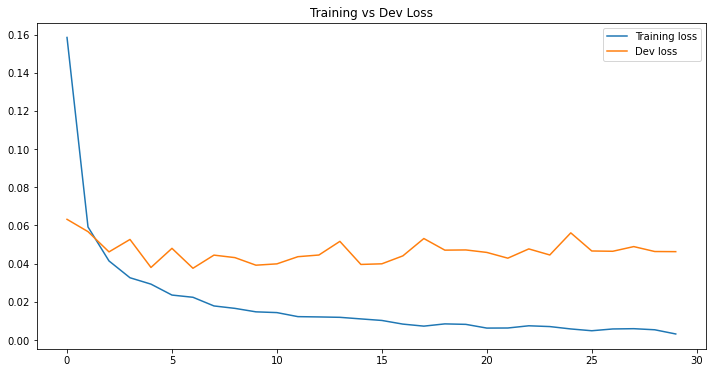
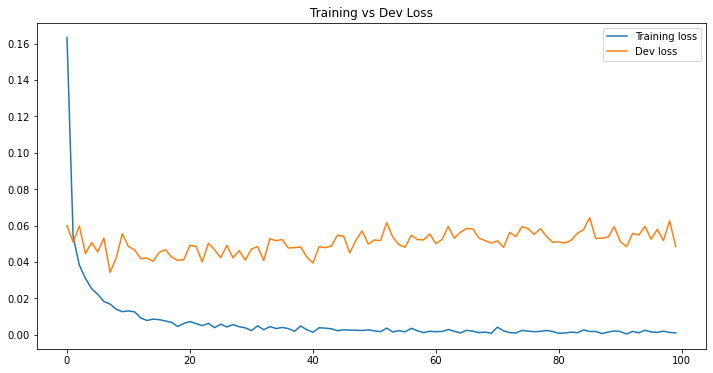
revise

diff --git a/_posts/2021-04-09-LeNet-5-with-MNIST.md b/_posts/2021-04-09-LeNet-5-with-MNIST.md
@@ -5,13 +5,13 @@ date: "9 April 2021"
 comments: yes
 layout: post
 ---
-
 In the previous post, we used `tf.keras` to build and train a 2-layer neural network to predict digits 0-9 with MNIST dataset. This time, we will step up our game a bit when we build a Convolutional Neural Network (CNN) for our learning.
 
 ## I - Load Packages and Define Constants
 
 
 ```python
+# Load packages
 import tensorflow as tf
 import numpy as np
 from tensorflow import keras
@@ -22,8 +22,9 @@ np.random.seed(1)
 
 
 ```python
+# Define constants
 NUMBER_OF_CLASSES = 10
-EPOCHS = 30
+EPOCHS = 100
 BATCH_SIZE = 2**6
 VALIDATION_SPLIT = .2
 ```
@@ -137,12 +138,15 @@ In this post, we will build a CNN to solve MNIST. Specifically we will use one o
 6. `Dense`: 84 units, activation = "relu".
 7. `Dense`: 10 units, activation = "softmax".
 
+
 ![png](/../figs/2021-04-09-LeNet-5-with-MNIST/LeNet5.png)
 
 
 ```python
 mnist_model = keras.Sequential([
     keras.layers.Input(shape=(28, 28, 1)),
+    
+    keras.layers.ZeroPadding2D(padding=(2, 2)),
     
     keras.layers.Conv2D(filters=6, kernel_size=(5, 5), strides=1, padding="valid"),
     keras.layers.BatchNormalization(),
@@ -180,29 +184,31 @@ mnist_model.summary()
     _________________________________________________________________
     Layer (type)                 Output Shape              Param #   
     =================================================================
-    conv2d (Conv2D)              (None, 24, 24, 6)         156       
+    zero_padding2d (ZeroPadding2 (None, 32, 32, 1)         0         
     _________________________________________________________________
-    batch_normalization (BatchNo (None, 24, 24, 6)         24        
+    conv2d (Conv2D)              (None, 28, 28, 6)         156       
     _________________________________________________________________
-    activation (Activation)      (None, 24, 24, 6)         0         
+    batch_normalization (BatchNo (None, 28, 28, 6)         24        
     _________________________________________________________________
-    average_pooling2d (AveragePo (None, 12, 12, 6)         0         
+    activation (Activation)      (None, 28, 28, 6)         0         
     _________________________________________________________________
-    batch_normalization_1 (Batch (None, 12, 12, 6)         24        
+    average_pooling2d (AveragePo (None, 14, 14, 6)         0         
     _________________________________________________________________
-    conv2d_1 (Conv2D)            (None, 8, 8, 16)          2416      
+    batch_normalization_1 (Batch (None, 14, 14, 6)         24        
     _________________________________________________________________
-    batch_normalization_2 (Batch (None, 8, 8, 16)          64        
+    conv2d_1 (Conv2D)            (None, 10, 10, 16)        2416      
     _________________________________________________________________
-    activation_1 (Activation)    (None, 8, 8, 16)          0         
+    batch_normalization_2 (Batch (None, 10, 10, 16)        64        
     _________________________________________________________________
-    average_pooling2d_1 (Average (None, 4, 4, 16)          0         
+    activation_1 (Activation)    (None, 10, 10, 16)        0         
     _________________________________________________________________
-    batch_normalization_3 (Batch (None, 4, 4, 16)          64        
+    average_pooling2d_1 (Average (None, 5, 5, 16)          0         
     _________________________________________________________________
-    flatten (Flatten)            (None, 256)               0         
+    batch_normalization_3 (Batch (None, 5, 5, 16)          64        
     _________________________________________________________________
-    dense (Dense)                (None, 120)               30840     
+    flatten (Flatten)            (None, 400)               0         
+    _________________________________________________________________
+    dense (Dense)                (None, 120)               48120     
     _________________________________________________________________
     batch_normalization_4 (Batch (None, 120)               480       
     _________________________________________________________________
@@ -212,8 +218,8 @@ mnist_model.summary()
     _________________________________________________________________
     dense_2 (Dense)              (None, 10)                850       
     =================================================================
-    Total params: 45,418
-    Trainable params: 44,922
+    Total params: 62,698
+    Trainable params: 62,202
     Non-trainable params: 496
     _________________________________________________________________
 
@@ -221,8 +227,8 @@ mnist_model.summary()
 
 ```python
 # Compile our model
-mnist_model.compile(optimizer="adam", 
-                    loss="categorical_crossentropy",
+mnist_model.compile(optimizer='adam', 
+                    loss='categorical_crossentropy',
                     metrics=['accuracy'])
 ```
 
@@ -243,13 +249,13 @@ history = mnist_model.fit(X_train_preprocessed,
 mnist_model.evaluate(X_test_preprocessed, Y_test_preprocessed)
 ```
 
-    313/313 [==============================] - 1s 4ms/step - loss: 0.0273 - accuracy: 0.9927
+    313/313 [==============================] - 1s 3ms/step - loss: 0.0417 - accuracy: 0.9926
 
 
 
 
 
-    [0.0272968802601099, 0.9926999807357788]
+    [0.041718218475580215, 0.9926000237464905]
 
 
 
@@ -291,59 +297,59 @@ df_loss_acc.describe()
   <tbody>
     <tr>
       <th>count</th>
-      <td>30.000000</td>
-      <td>30.000000</td>
-      <td>30.000000</td>
-      <td>30.000000</td>
+      <td>100.000000</td>
+      <td>100.000000</td>
+      <td>100.000000</td>
+      <td>100.000000</td>
     </tr>
     <tr>
       <th>mean</th>
-      <td>0.019245</td>
-      <td>0.993931</td>
-      <td>0.046373</td>
-      <td>0.988331</td>
+      <td>0.006823</td>
+      <td>0.997854</td>
+      <td>0.050759</td>
+      <td>0.990359</td>
     </tr>
     <tr>
       <th>std</th>
-      <td>0.029051</td>
-      <td>0.008527</td>
-      <td>0.005838</td>
-      <td>0.002323</td>
+      <td>0.017671</td>
+      <td>0.005248</td>
+      <td>0.005864</td>
+      <td>0.002038</td>
     </tr>
     <tr>
       <th>min</th>
-      <td>0.003132</td>
-      <td>0.953438</td>
-      <td>0.037565</td>
-      <td>0.980500</td>
+      <td>0.000413</td>
+      <td>0.951917</td>
+      <td>0.034314</td>
+      <td>0.981667</td>
     </tr>
     <tr>
       <th>25%</th>
-      <td>0.006448</td>
-      <td>0.994307</td>
-      <td>0.043261</td>
-      <td>0.987771</td>
+      <td>0.001712</td>
+      <td>0.998427</td>
+      <td>0.047801</td>
+      <td>0.989917</td>
     </tr>
     <tr>
       <th>50%</th>
-      <td>0.010621</td>
-      <td>0.996365</td>
-      <td>0.046205</td>
-      <td>0.989125</td>
+      <td>0.002462</td>
+      <td>0.999198</td>
+      <td>0.051356</td>
+      <td>0.990917</td>
     </tr>
     <tr>
       <th>75%</th>
-      <td>0.017502</td>
-      <td>0.997828</td>
-      <td>0.047923</td>
-      <td>0.989750</td>
+      <td>0.004907</td>
+      <td>0.999464</td>
+      <td>0.054700</td>
+      <td>0.991583</td>
     </tr>
     <tr>
       <th>max</th>
-      <td>0.158487</td>
-      <td>0.999062</td>
-      <td>0.063203</td>
-      <td>0.990583</td>
+      <td>0.163319</td>
+      <td>0.999896</td>
+      <td>0.064379</td>
+      <td>0.992750</td>
     </tr>
   </tbody>
 </table>
@@ -385,10 +391,5 @@ df_acc.plot(title='Training vs Dev Accuracy', figsize=(12, 6))
 
 ## V - Conclusion
 
-In this post, we built a LeNet-5 CNN to recognize digits with MNIST dataset. In comparison to [the previous post](https://newbiettn.github.io/2021/04/07/MNIST-with-keras/), this time, our model achieved a much better prediction accuracy on a seperate test set with 99.27% (vs. 96.66%). 
-
-
-```python
-
-```
+In this post, we built a LeNet-5 CNN to recognize digits with MNIST dataset. In comparison to [the previous post](https://newbiettn.github.io/2021/04/07/MNIST-with-keras/), this time, our model achieved a much better prediction accuracy on a seperate test set with 99.26% (vs. 96.66%). 
 
